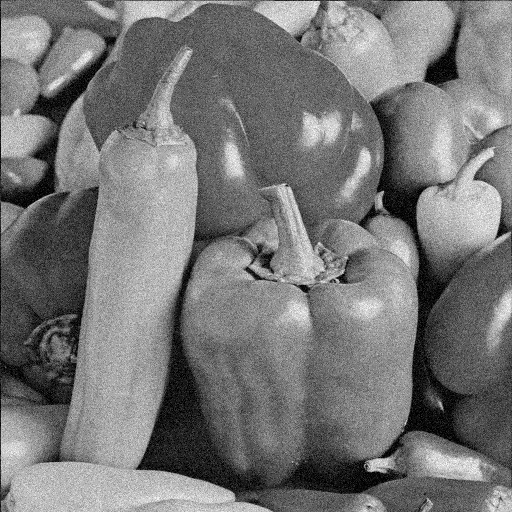
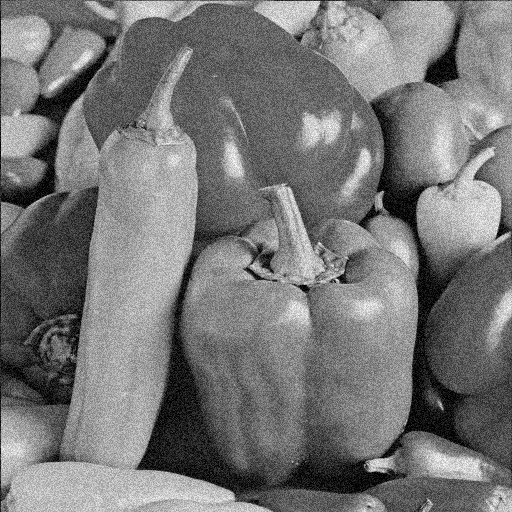
Multiplicative noise

Changed region(s): [[0.0, 0.0, 1.0, 1.0]]

diff --git a/Noise/Multiplicative_Noise/main.py b/Noise/Multiplicative_Noise/main.py
@@ -1,19 +1,27 @@
 from skimage import io
 import numpy as np
 
-image_path = 'Reference_Images/image1_reference.png'
+image_path = '../../Reference_Images/image1_reference.png'
 image = io.imread(image_path)
-additive_noise = input('Enter the additive noise value : ')
 
-while additive_noise == '':
-    additive_noise = input('Enter the additive noise value : ')
-additive_noise = float(additive_noise)
+# The strength of the multiplicative noise
+multiplicative_noise = input('Enter the multiplicative noise value (0-255) : ')
+while multiplicative_noise == '' or float(multiplicative_noise) < 0 or float(multiplicative_noise) > 255:
+    multiplicative_noise = input('Enter the multiplicative noise value (0-255) : ')
+multiplicative_noise = float(multiplicative_noise)
 
-# Iterate through each pixel in the image and randomly add or subtract the additive noise value (min 0, max 255)
+# The probability of the noise
+noise_probability = input('Enter the noise probability (0-1, the lower the stronger) : ')
+while noise_probability == '' or float(noise_probability) < 0 or float(noise_probability) > 1:
+    noise_probability = input('Enter the noise probability (0-1, the lower the stronger) : ')
+noise_probability = float(noise_probability)
+
+# Iterate through each pixel in the image and apply multiplicative noise
 for row in range(len(image)):
     for pixel in range(len(image[row])):
-      if np.random.random() > 0.8:
-        image[row][pixel] = np.clip(image[row][pixel] + (image[row][pixel] * additive_noise), 0, 255)
+        if np.random.random() > noise_probability:
+            noise = np.random.uniform(-multiplicative_noise/255, multiplicative_noise/255)
+            # Apply the multiplicative noise: u * (1 + n)
+            image[row][pixel] = np.clip(image[row][pixel] * (1 + noise), 0, 255)
 
-io.imsave('image_additive_noise.png', image)
-
+io.imsave('image_multiplicative_noise.png', image)

diff --git a/Noise/Additive_Noise/main.py b/Noise/Additive_Noise/main.py
@@ -11,9 +11,9 @@ while additive_noise == '' or float(additive_noise) < 0 or float(additive_noise)
 additive_noise = float(additive_noise)
 
 # The probability of the noise
-noise_probability = input('Enter the noise probability (0-1) : ')
+noise_probability = input('Enter the noise probability (0-1, the lower the stronger) : ')
 while noise_probability == '' or float(noise_probability) < 0 or float(noise_probability) > 1:
-    noise_probability = input('Enter the noise probability (0-1) : ')
+    noise_probability = input('Enter the noise probability (0-1, the lower the stronger) : ')
 noise_probability = float(noise_probability)
 
 # Iterate through each pixel in the image and randomly add or subtract the random additive noise value (min 0, max 255)
@@ -21,6 +21,7 @@ for row in range(len(image)):
     for pixel in range(len(image[row])):
         if np.random.random() > noise_probability:
             noise = np.random.uniform(-additive_noise, additive_noise)
+            #u + n
             image[row][pixel] = np.clip((image[row][pixel] + noise), 0, 255)
 
 io.imsave('image_additive_noise.png', image)
